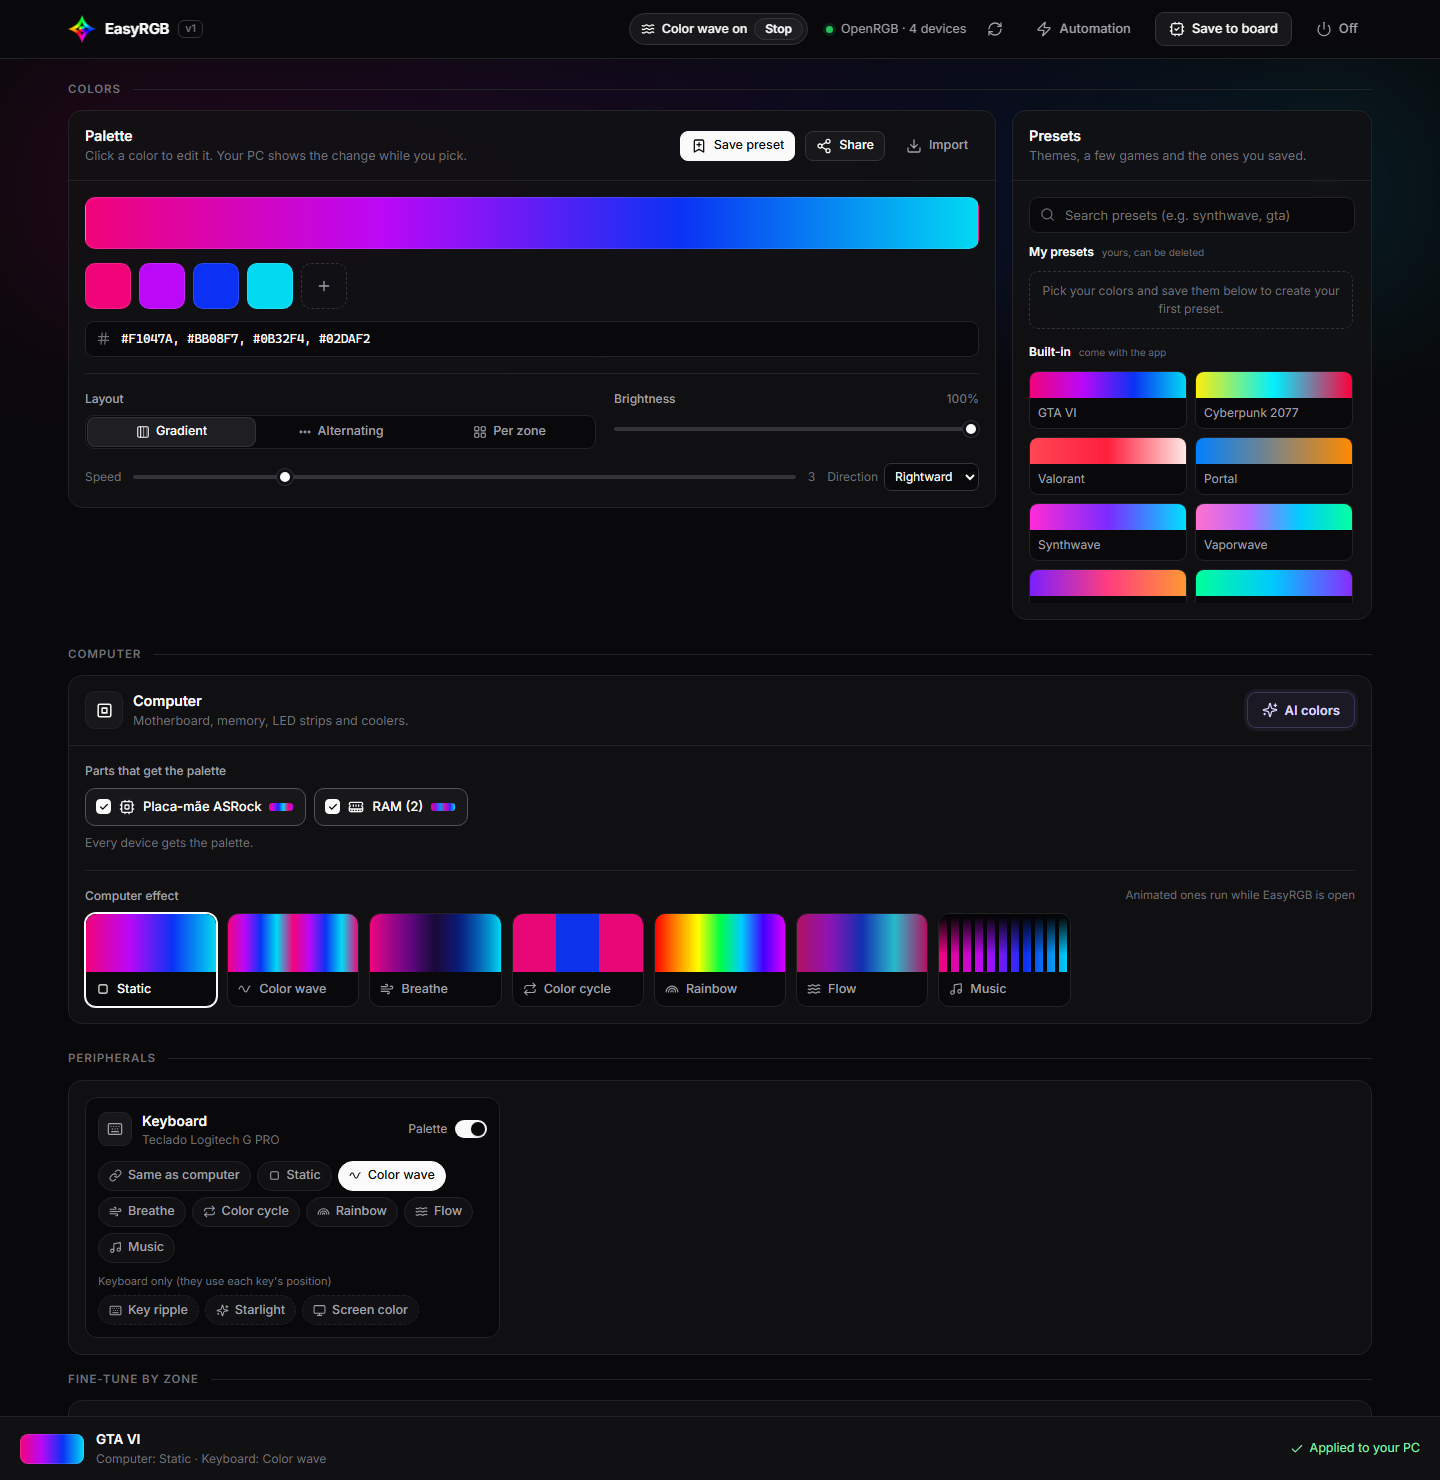
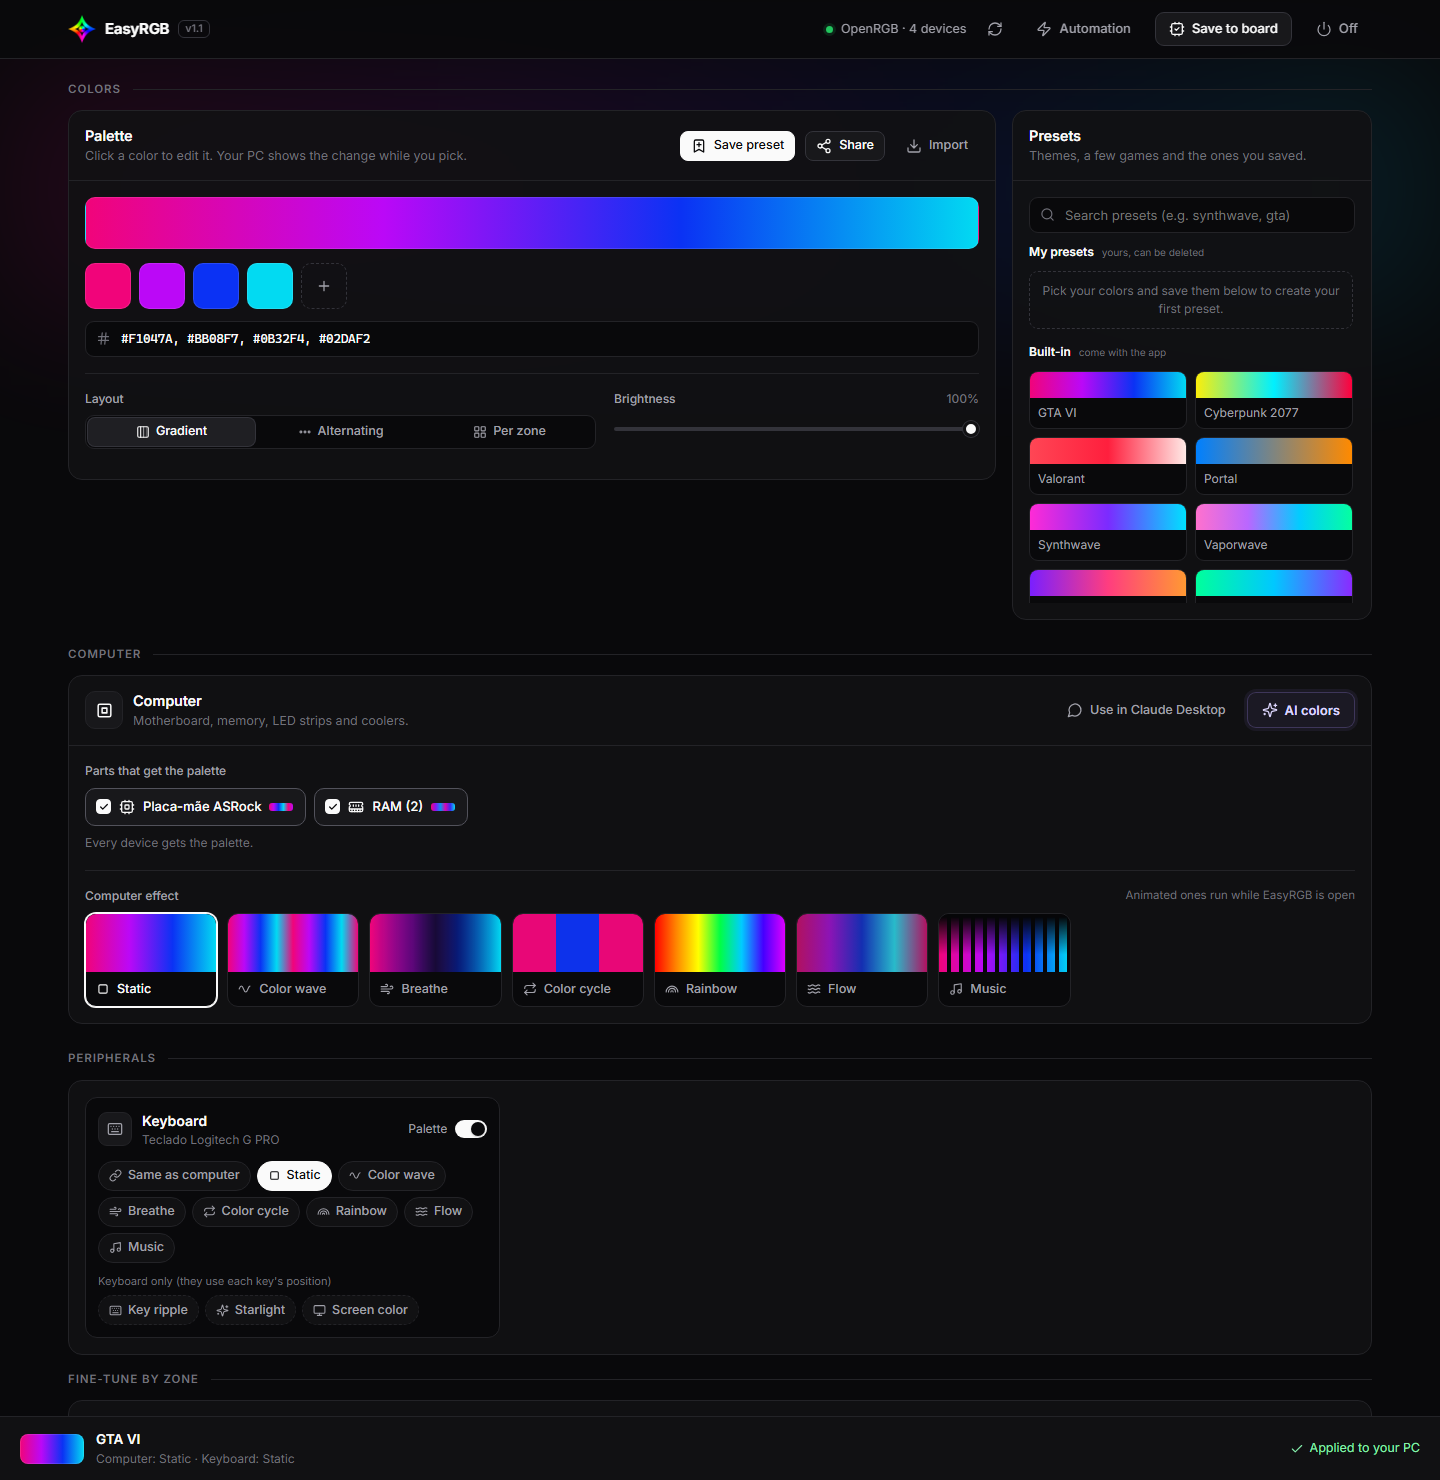
README rewrite for 1.1, saved peripheral effects shown correctly
- README rewritten around three ways to use EasyRGB: download the .exe,
  chat with AI (MCP) or let an AI agent set it up; new screenshot and
  social preview.
- START-HERE mentions the .exe for people who don't want AI.
- A peripheral's saved static effect now shows as selected after reload.
- Asset tool uses the per-version libraries.

diff --git a/app/index.html b/app/index.html
@@ -1496,9 +1496,10 @@ async function loadState(useLast){
     const ui=L.ui||{}; S.links={DRAM:"mirror",...(S.pc?.links||{}),...(ui.links||{})};
     if(!ui.links && Array.isArray(L.groups)) L.groups.forEach(g=>{ const d=S.devices.find(x=>x.id===g.ids[0]); if(d) S.links[d.type]=g.mode; });
     S.hw={}; Object.entries(L.hw||{}).forEach(([k,v])=>S.hw[+k]=v);
-    S.speed=ui.speed||3; S.dir=ui.dir||"direita"; S.fx=liveFx; S.pfx={};
+    S.speed=ui.speed||3; S.dir=ui.dir||"direita"; S.fx=liveFx;
+    // efeito de cada periférico: os parados valem sempre; os animados só se o efeito estiver rodando
+    S.pfx=Object.fromEntries(Object.entries(ui.pfx||{}).filter(([,v])=>s.effect||v==="static"));
     if(s.effect){
-      S.pfx={...(ui.pfx||{})};
       if(Array.isArray(ui.fxdevs)){   // formato antigo: "só estes animam"
         S.devices.forEach(d=>{ if(isPeriph(d)) S.pfx[d.id]=ui.fxdevs.includes(d.id)?ui.effect:"static"; });
         if(!S.devices.some(d=>!isPeriph(d)&&ui.fxdevs.includes(d.id))) S.fx="static";
@@ -1506,7 +1507,7 @@ async function loadState(useLast){
     }
     S.preset=null;
     S.applied=snap();
-  }else{ S.fx=liveFx; if(!s.effect) S.pfx={}; }
+  }else{ S.fx=liveFx; if(!s.effect) S.pfx=Object.fromEntries(Object.entries(S.pfx).filter(([,v])=>v==="static")); }
   renderPresets(); renderAI(); render();
 }
 

diff --git a/tools/make_assets.py b/tools/make_assets.py
@@ -10,6 +10,7 @@ from pathlib import Path
 
 ROOT = Path(__file__).resolve().parents[1]
 sys.path.insert(0, str(ROOT / "app" / "lib"))
+sys.path.insert(0, str(ROOT / "app" / "lib" / f"py{sys.version_info[0]}{sys.version_info[1]}"))
 from PIL import Image, ImageChops, ImageDraw, ImageFilter, ImageFont  # noqa: E402
 
 BG = (17, 17, 20, 255)

diff --git a/README.md b/README.md
@@ -2,18 +2,19 @@
 
 <h1 align="center">EasyRGB</h1>
 
-<p align="center"><b>Your PC's RGB, set up by AI.</b></p>
+<p align="center"><b>Your PC's RGB, set up by AI. Change it by chatting.</b></p>
 
 <p align="center">
   Free, open-source <b>RGB controller for Windows</b> built on <a href="https://openrgb.org">OpenRGB</a>.<br>
-  One app for your motherboard, RAM, keyboard and other RGB devices: a lightweight alternative to<br>
+  One light app for your motherboard, RAM, keyboard and other RGB gear: a lightweight alternative to<br>
   ASRock Polychrome, ASUS Aura Sync / Armoury Crate, MSI Mystic Light and Gigabyte RGB Fusion.
 </p>
 
 <p align="center">
-  <img alt="Version" src="https://img.shields.io/badge/version-v1-a78bfa?style=flat-square">
-  <img alt="Windows" src="https://img.shields.io/badge/Windows-10%20%7C%2011-0078D4?style=flat-square&logo=windows&logoColor=white">
-  <img alt="Python" src="https://img.shields.io/badge/Python-3-3776AB?style=flat-square&logo=python&logoColor=white">
+  <a href="../../releases/latest"><img alt="Download" src="https://img.shields.io/badge/download-EasyRGB.exe-a78bfa?style=flat-square&logo=windows&logoColor=white"></a>
+  <img alt="Version" src="https://img.shields.io/badge/version-1.1-a78bfa?style=flat-square">
+  <img alt="Windows" src="https://img.shields.io/badge/Windows-10%20%7C%2011-0078D4?style=flat-square">
+  <img alt="MCP" src="https://img.shields.io/badge/MCP-server-22c55e?style=flat-square">
   <img alt="OpenRGB" src="https://img.shields.io/badge/OpenRGB-1.1-22c55e?style=flat-square">
   <img alt="MIT" src="https://img.shields.io/badge/license-MIT-71717a?style=flat-square">
 </p>
@@ -21,78 +22,80 @@
 <p align="center"><sub>English · <a href="#resumo-em-português">Resumo em português</a> · The app follows your system language (English or Portuguese).</sub></p>
 
 <p align="center">
-  <img src="docs/screenshot.png" alt="EasyRGB" width="920">
+  <img src="docs/screenshot.png" alt="EasyRGB: colors, computer and peripherals, each with its own effect" width="920">
 </p>
 
-> [!NOTE]
-> **Version 1 (V1).** First public release. It works day to day, but it will still change a lot.
+## Three ways to use it
 
-## Easiest: download and double-click
+| | For | What you do |
+|---|---|---|
+| **1. Download the app** | Anyone | Download, double-click `EasyRGB.exe`, pick colors. No Python, no setup. |
+| **2. Chat with AI** | Claude Desktop, Claude Code, Cursor... | *"make my PC purple with a wave on the keyboard"* and the lights change. |
+| **3. Let an AI agent set it up** | Claude Code, Codex, Gemini CLI... | Paste one prompt; the agent installs and configures everything for your PC. |
+
+### 1. Download the app
 
 1. Download **EasyRGB-windows.zip** from [Releases](../../releases/latest) and extract it (e.g. to `C:\EasyRGB`).
-2. Open **`EasyRGB.exe`**. No Python needed. The first time, Windows asks for administrator permission once
-   (it installs official OpenRGB and the signed PawnIO driver).
-3. Pick your colors in the app. Done.
+2. Open **`EasyRGB.exe`**. The first time, Windows asks for administrator permission once: it installs official
+   OpenRGB and the signed PawnIO driver it uses to talk to your RGB chips.
+3. Pick a preset or your own colors. Done.
 
 > [!TIP]
 > EasyRGB.exe isn't code-signed yet, so Windows SmartScreen may say *"Windows protected your PC"*.
-> Click **More info → Run anyway**. The exe is built in the open by [GitHub Actions](../../actions) from this source.
+> Click **More info → Run anyway**. Every exe is built in the open by [GitHub Actions](../../actions) from this source.
 
-Want AI to set it up for you, or to change the lights by chatting? See below.
+### 2. Change your lights by chatting (MCP)
 
-## Control your lights from an AI chat (MCP)
+EasyRGB ships an [MCP](https://modelcontextprotocol.io) server, so AI chat apps can change your lights:
+*"make everything purple"*, *"keyboard wave in GTA VI colors"*, *"dim to 30%"*, *"lights off"*.
 
-EasyRGB includes an [MCP](https://modelcontextprotocol.io) server, so AI apps can change your lights while you chat:
-*"make everything purple"*, *"keyboard wave in GTA VI colors"*, *"lights off"*.
-
-- **Claude Desktop:** in EasyRGB click **Use in Claude Desktop** (or run `EasyRGB.exe mcp-claude-desktop`), then restart Claude Desktop.
+- **Claude Desktop:** in EasyRGB click **Use in Claude Desktop**, then restart Claude Desktop.
 - **Claude Code:** `claude mcp add easyrgb -- C:\EasyRGB\EasyRGB.exe --mcp`
-- **Cursor, VS Code and others:** add a stdio server with command `C:\EasyRGB\EasyRGB.exe` and args `["--mcp"]`
+- **Cursor, VS Code and others:** a stdio server with command `C:\EasyRGB\EasyRGB.exe` and args `["--mcp"]`
   (from source: `python app/mcp_server.py`).
 
 Tools: `easyrgb_status`, `easyrgb_apply_look`, `easyrgb_brightness`, `easyrgb_lights`.
 
-## Set up with an AI agent
+### 3. Let an AI agent set it up
 
-EasyRGB is a **template**: an AI agent installs it and adapts it to *your* PC (devices, chip effects, conflicts) **before you even open it**. No technical knowledge needed.
+EasyRGB is also an **almost-ready template**: an AI agent reads [`AGENTS.md`](AGENTS.md), installs everything,
+detects your hardware and configures it for *your* PC, asking only which colors you like. It answers in your language.
 
 1. Download this repo (**Code → Download ZIP**) and extract it, e.g. to `C:\EasyRGB`.
-2. Open an AI agent that can run commands on your PC (Claude Code, Codex, Gemini CLI, Cursor...) **in that folder**.
-3. Paste this prompt. The agent installs and sets up everything by itself and asks only which colors you like (Windows asks for administrator permission once: click **Yes**):
+2. Open an AI agent that can run commands (Claude Code, Codex, Gemini CLI, Cursor...) **in that folder** and paste:
 
 ```text
 Set up EasyRGB on my PC following the AGENTS.md file in this folder. Do everything yourself, quickly (I'll accept the Windows administrator prompt). Only ask me which color style I like. When done, open the app and tell me in a few lines what you set up. I'll pick the effect later in the app. Answer in my language (if unsure, use my Windows language).
 ```
 
-4. Done: the app opens with your look applied. Pick effects there (computer and each peripheral), or just ask the agent for a new look.
+3. The app opens with your look applied. Pick effects there, or ask the agent for a new look anytime.
 
-The same prompt (also in Portuguese) is in [`START-HERE.txt`](START-HERE.txt), and the app has a **Copy setup prompt** button. `EasyRGB.bat` reminds you if the PC hasn't been set up by AI yet. Setup takes a few minutes.
+The prompt is also in [`START-HERE.txt`](START-HERE.txt) (English and Portuguese) and behind the app's **AI colors** button.
 
 ## Features
 
 | | |
 |---|---|
-| **AI setup** | The agent detects motherboard, BIOS, RAM, GPU, peripherals, each chip's built-in effects and conflicting vendor apps, then configures everything. Instructions live in [`AGENTS.md`](AGENTS.md). |
-| **AI chat control (MCP)** | Claude Desktop, Claude Code, Cursor and other MCP apps change your lights while you chat. |
-| **AI looks** | *"Purple and blue cyberpunk, white keyboard, continuous RAM"*: the agent builds and applies it. The **AI colors** button copies the prompt in one click. |
-| **Live preview** | Your PC changes while you pick a color, then **Apply** or **Discard**. |
-| **Computer & peripherals** | One clear screen: **Computer** (motherboard, RAM, strips, coolers) and **Peripherals**, one block per device (e.g. *Keyboard – Logitech G PRO*). Each can follow the palette or not, and run **its own effect**: computer still, keyboard in a color wave. |
-| **Works on top of vendor apps** | No more fighting Logitech G HUB: EasyRGB paints your Logitech keyboard key by key through G HUB's own lighting SDK, with G HUB still open. Close EasyRGB and G HUB goes back to its profile. The AI only enables what exists on *your* PC. |
-| **Per-zone colors** | Give any zone its own color. RAM sticks can be separate, mirrored or continuous. |
-| **Effects** | **Color wave** in your own colors (pick direction and speed), Breathe, Color cycle, Rainbow, Flow and Music for any device. Keyboard-only: **Key ripple**, **Starlight** and **Screen color**, using each key's real position. Plus each chip's native effects, read from your hardware. |
-| **Game mode** | Open a game and the PC switches to its preset; close it and your look comes back. |
-| **Night mode & schedules** | Dim at night, back to normal in the morning, presets at set times. |
-| **Restore on PC start** | Brings colors back after a reboot (even on RAM that can't store them) and **exits by itself**: nothing stays in memory. |
-| **Music, shortcuts & tray** | Lights that dance to what's playing, global Ctrl+Alt shortcuts, and a tray icon next to the clock (no window, ~35 MB). |
-| **Keyboard highlights** | Color WASD, arrows, numbers, F-keys and more on their own. Warns when a vendor app with no bridge yet fights for your lights. |
-| **Presets & gallery** | 13 built-in presets that never change, plus your own. Share looks with `EASYRGB1-...` codes and browse the [community gallery](GALLERY.md). |
-| **English / Português** | Follows your system language. Dark theme, like most RGB apps, so LED colors look true. |
+| **Computer & peripherals** | One clear screen: **Computer** (motherboard, RAM, strips, coolers) and **Peripherals**, one block per device (e.g. *Keyboard – Logitech G PRO*). Each can follow the palette or not and run **its own effect**: computer still, keyboard in a wave. |
+| **Effects** | **Color wave** in your own colors (direction and speed), Breathe, Color cycle, Rainbow, Flow and Music. Keyboard-only: **Key ripple**, **Starlight** and **Screen color**, using each key's real position. Plus each chip's built-in effects, read from your hardware. |
+| **Works with vendor apps** | No fighting Logitech G HUB: EasyRGB paints Logitech keyboards key by key through G HUB's own lighting SDK, with G HUB still open. It waits for G HUB at startup and reconnects if it restarts. |
+| **AI everywhere** | Setup by any AI agent, looks described in words, and live control from AI chat apps (MCP). |
+| **Live preview** | Your PC changes while you pick a color; then **Apply** or **Discard**. |
+| **Per-zone & per-key colors** | Give any zone or key group (WASD, arrows, F-keys...) its own color. RAM sticks separate, mirrored or continuous. |
+| **Game mode & schedules** | Open a game and the PC switches to its preset; night mode dims at night and restores in the morning. |
+| **Restore on PC start** | Brings colors back after a reboot, even on RAM that forgets them, and closes itself when nothing needs to run. Survives Python updates. |
+| **Light** | ~50 MB in the background, tray icon next to the clock, global Ctrl+Alt shortcuts, no heavy animations in the UI. |
+| **Presets & sharing** | 13 built-in presets (GTA VI, Cyberpunk 2077, Valorant, Synthwave...) plus your own. Share looks with `EASYRGB1-...` codes and the [community gallery](GALLERY.md). |
+| **Any screen, two languages** | Responsive down to phone width. English or Portuguese, following your system. Dark theme so LED colors look true. |
 
 <details>
-<summary><b>Manual install, commands and tests</b></summary>
+<summary><b>Run from source, commands and tests</b></summary>
 
-**Requirements:** Windows 10/11 and [OpenRGB-supported](https://openrgb.org/devices.html) hardware. Running from source also needs [Python 3](https://www.python.org/downloads/); `EasyRGB.exe` doesn't.
-Without an agent: run `EasyRGB.bat` and choose *Open anyway*. It installs official OpenRGB 1.1, the Python libraries (`openrgb-python`, Pillow, pystray, pycaw; reinstalled automatically if your Python version changes) and the signed PawnIO driver, and disables (without deleting) the ASRock Polychrome startup task. Undo with `Voltar para ASRock (admin).ps1`.
+**Requirements:** Windows 10/11 and [OpenRGB-supported](https://openrgb.org/devices.html) hardware.
+From source you also need [Python 3](https://www.python.org/downloads/) (the `.exe` doesn't).
+Run `EasyRGB.bat`: the first time it installs official OpenRGB 1.1, the Python libraries (per Python version,
+reinstalled automatically if your Python changes) and the PawnIO driver, and disables (without deleting) the ASRock
+Polychrome startup task. Undo with `Voltar para ASRock (admin).ps1`.
 
 ```bash
 cd app
@@ -102,16 +105,32 @@ python rgb_controller.py ia look.json        # apply an AI-made look
 python rgb_controller.py listar              # devices, zones and chip effects
 python rgb_controller.py automacao rules.json
 python rgb_controller.py iniciar-com-windows sim
-python -m unittest discover -s tests -v      # 82 tests, no hardware needed
+python rgb_controller.py autoteste           # checks libraries, audio, screen capture and resources
+python mcp_server.py                         # MCP server over stdio
+cd ..
+python -m unittest discover -s tests -v      # 84 tests, no hardware needed
 python tools/build_exe.py                    # builds EasyRGB.exe + zip (CI does this on every push)
 ```
+
+The same commands work as `EasyRGB.exe <command>` in the downloaded app.
 </details>
 
 ## Resumo em português
 
-O **EasyRGB** controla o RGB do PC por paletas e é feito para ser **configurado por IA**. Baixe a pasta, abra um agente de IA nela (Claude Code, Codex, Gemini CLI...) e cole o prompt em português do [`START-HERE.txt`](START-HERE.txt). Ele instala, detecta a sua placa, RAMs e periféricos e configura tudo sozinho, só perguntando as cores que você curte. Os efeitos você escolhe depois no app. Depois é só abrir o `EasyRGB.bat`.
-A tela separa **Computador** e **Periféricos** (ex.: *Teclado – Logitech G PRO*), cada um com o próprio efeito, como a **onda de cores** com as suas cores. O EasyRGB pinta o teclado Logitech **por cima do G HUB**, sem conflito. O app fica em português ou inglês conforme o idioma do seu sistema.
-**Mais fácil ainda:** baixe o `EasyRGB-windows.zip` em Releases, extraia e abra o `EasyRGB.exe` (não precisa de Python). E com o botão **Usar no Claude Desktop** você muda as luzes conversando com a IA (MCP).
+O **EasyRGB** controla o RGB do PC (placa-mãe, memórias, teclado e outros) num app leve e grátis, em cima do OpenRGB.
+Dá para usar de três jeitos:
+
+1. **Baixar o app:** baixe o `EasyRGB-windows.zip` em [Releases](../../releases/latest), extraia e abra o
+   `EasyRGB.exe`. Não precisa de Python. Na primeira vez o Windows pede administrador uma vez.
+2. **Conversar com a IA:** clique em **Usar no Claude Desktop** e peça pelo chat, por exemplo *"deixa tudo roxo
+   com onda no teclado"*. Também funciona no Claude Code, Cursor e outros apps com MCP.
+3. **Deixar um agente de IA configurar:** abra um agente (Claude Code, Codex, Gemini CLI...) na pasta e cole o
+   prompt em português do [`START-HERE.txt`](START-HERE.txt). Ele instala e configura tudo sozinho, só perguntando
+   as cores que você curte.
+
+A tela separa **Computador** e **Periféricos** (ex.: *Teclado – Logitech G PRO*), cada um com o próprio efeito,
+como a **onda de cores** com as suas cores. O teclado Logitech é pintado **por cima do G HUB**, sem conflito.
+O app fica em português ou inglês conforme o idioma do sistema.
 
 ---
 
